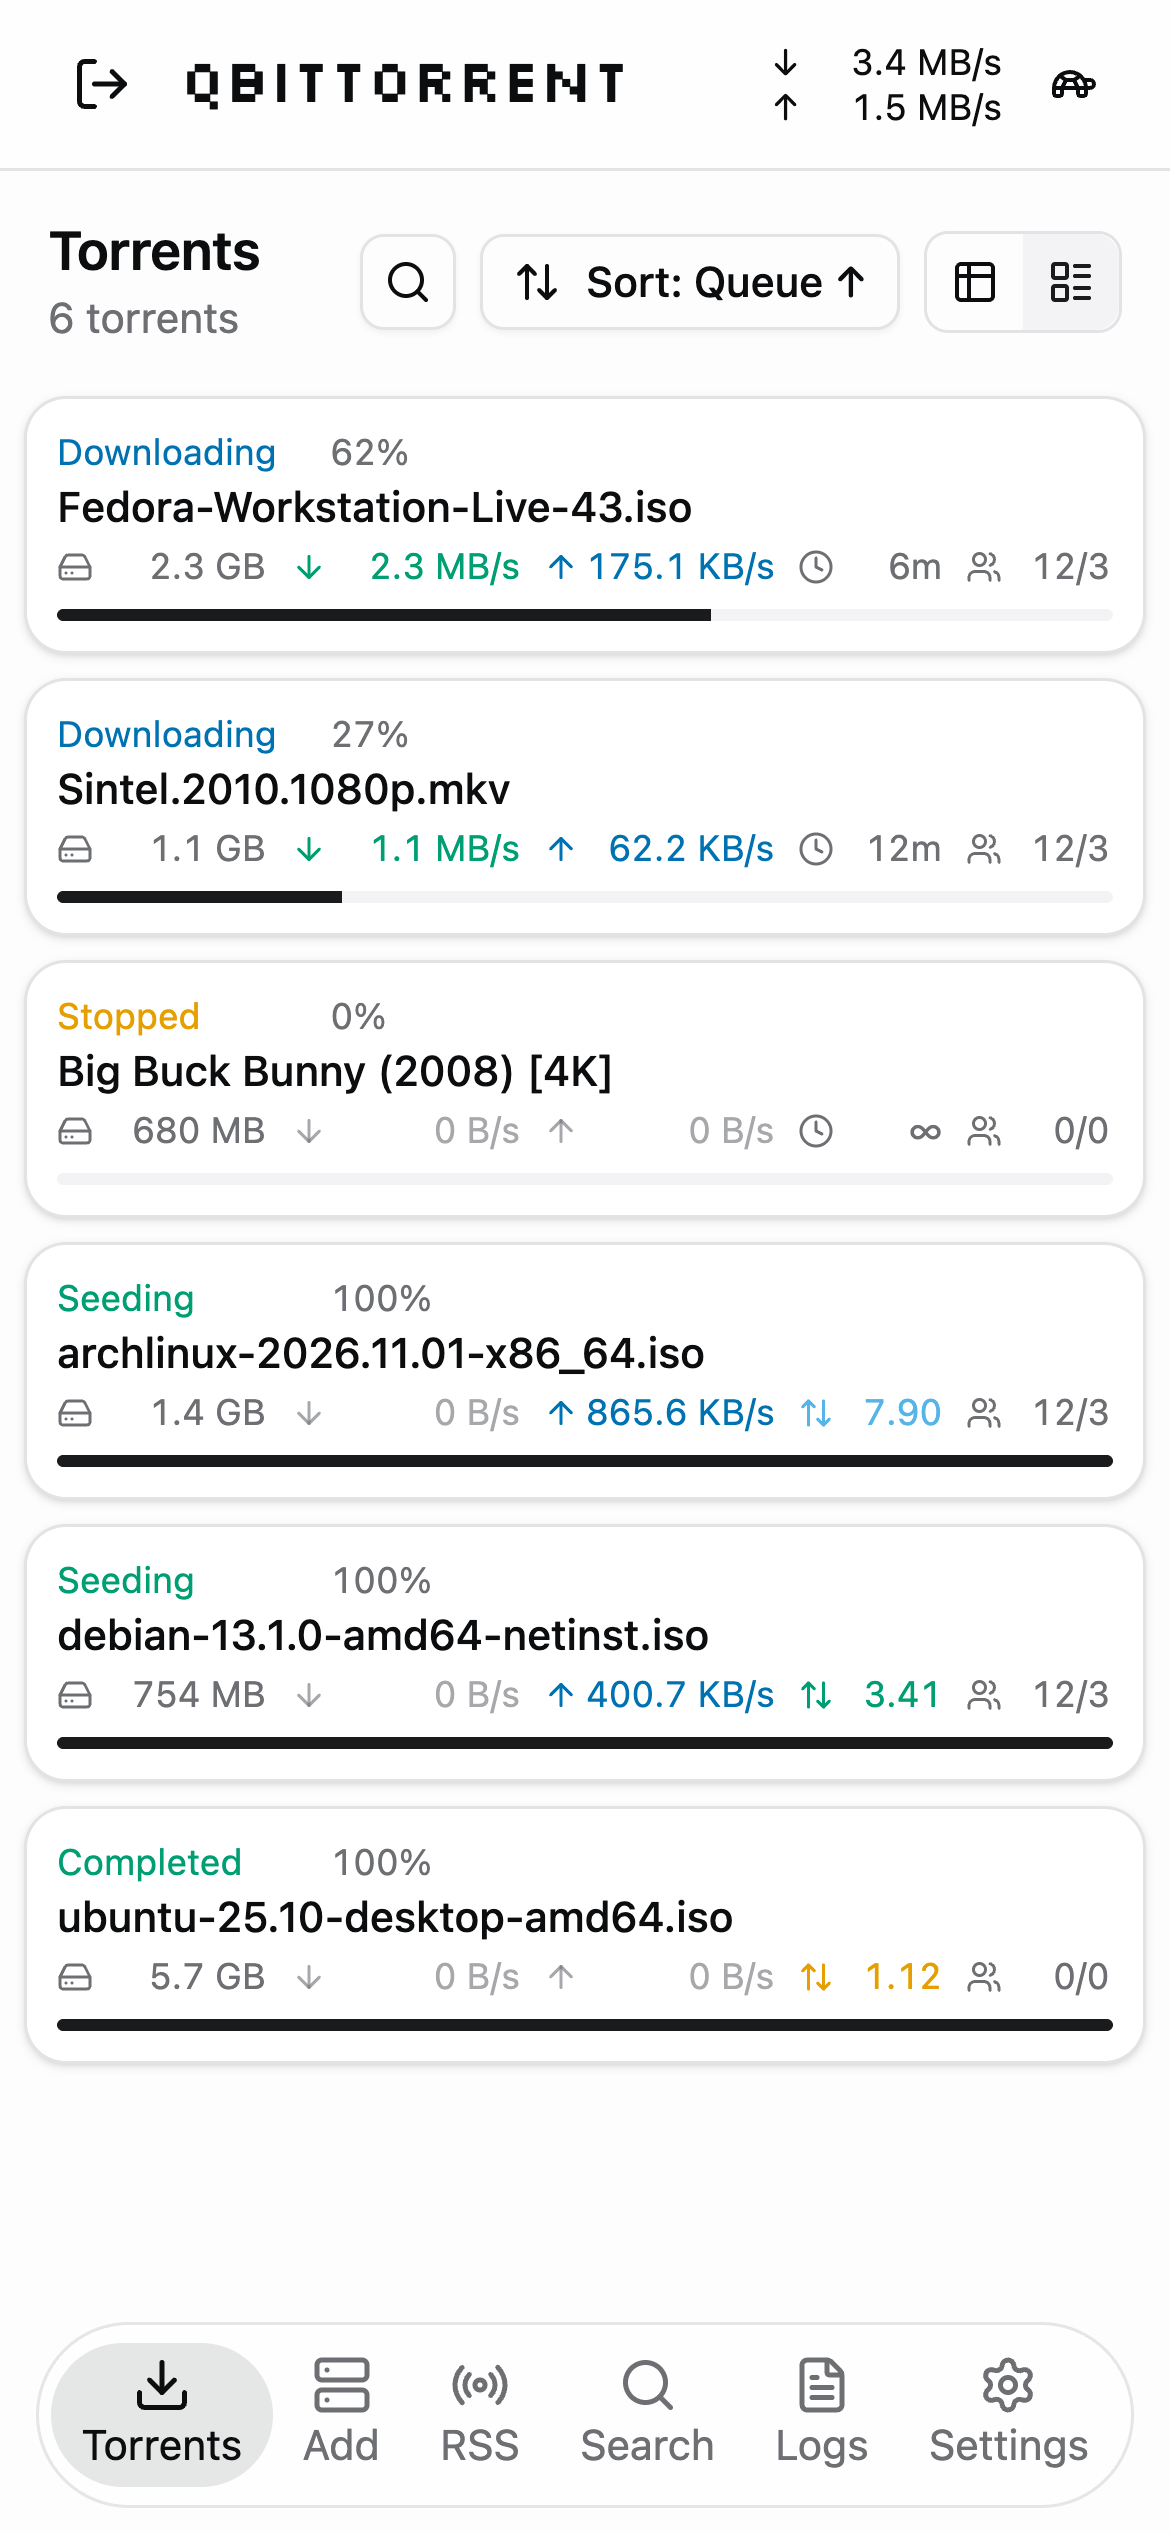
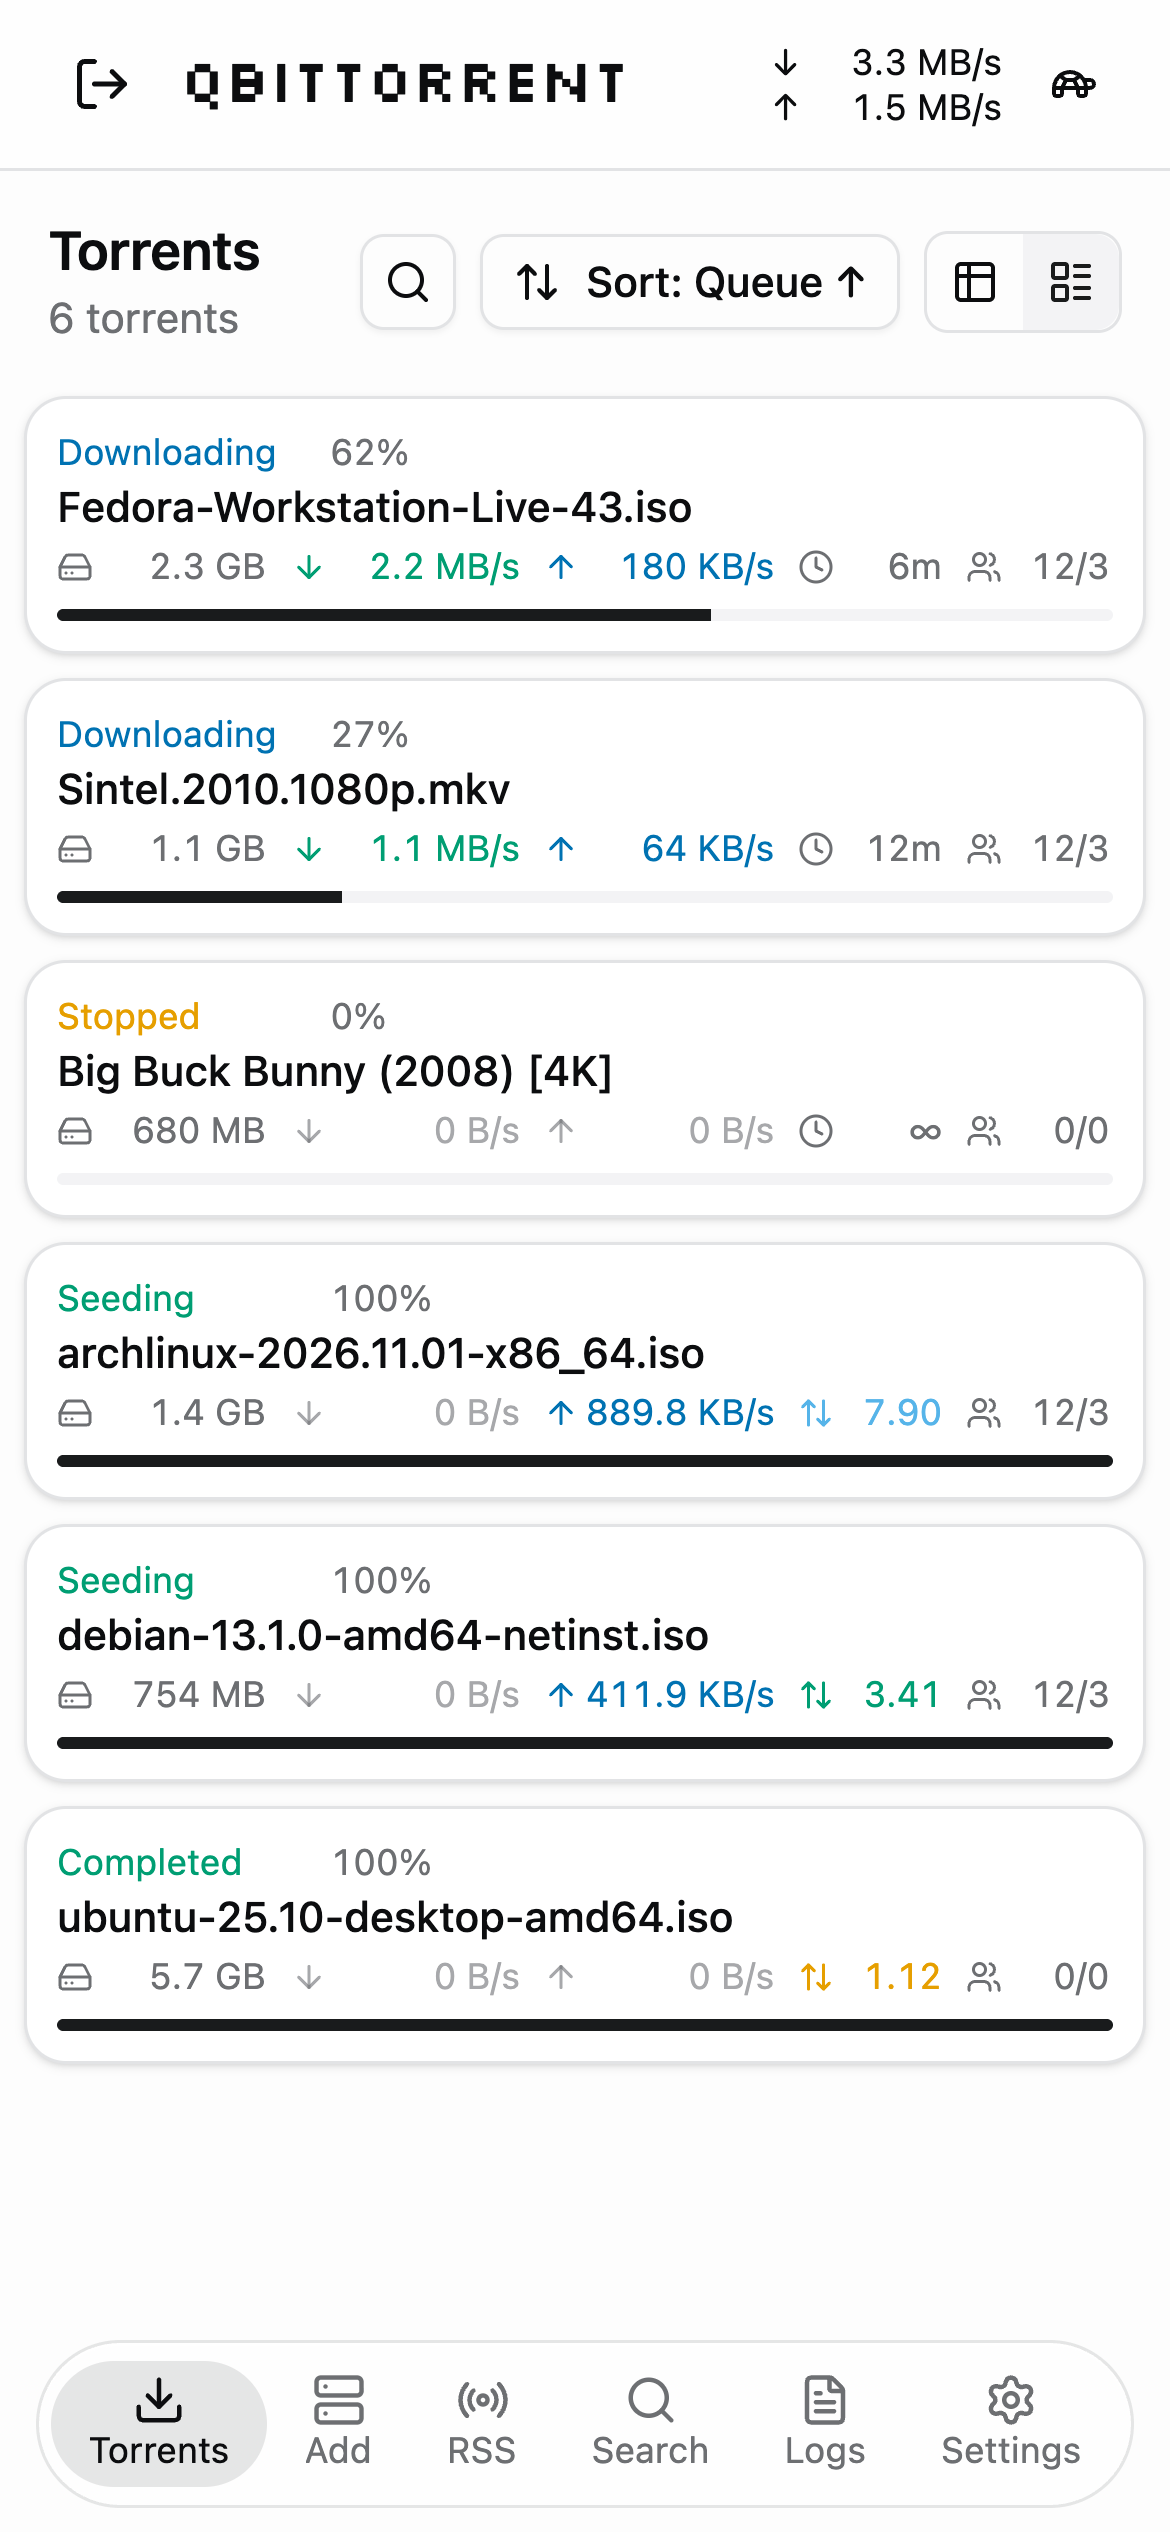
qbminimal 1.5.4
Navigation text sizes: sidebar labels are 14px with 16px icons beside
them, and the phone tab bar's labels are 12px with 18px icons above them
(20px when the labels are hidden in Settings). New screenshots.

diff --git a/src/components/Layout.tsx b/src/components/Layout.tsx
@@ -133,9 +133,9 @@ export function Layout({ page, onNavigate, children }: LayoutProps) {
   }, [page])
 
   const navButtons = PAGES.map(({ id, label, icon: Icon }) => (
-    <Button key={id} variant={page === id ? 'secondary' : 'ghost'} className="justify-start gap-2 overflow-hidden text-base" title={label} aria-current={page === id ? 'page' : undefined} onClick={() => onNavigate(id)}>
-      {/* Icons a little larger than the 16px labels, in the same proportion as the buttons. */}
-      <Icon className="size-4.5" />
+    <Button key={id} variant={page === id ? 'secondary' : 'ghost'} className="justify-start gap-2 overflow-hidden" title={label} aria-current={page === id ? 'page' : undefined} onClick={() => onNavigate(id)}>
+      {/* 14px labels like the tab bar's, with 16px icons beside them, as on the other buttons. */}
+      <Icon className="size-4" />
       <span className="truncate">{label}</span>
     </Button>
   ))
@@ -206,9 +206,10 @@ export function Layout({ page, onNavigate, children }: LayoutProps) {
         <div className="flex justify-around px-1 py-1.5">
           {PAGES.map(({ id, label, icon: Icon }) => (
             <button key={id} type="button" aria-current={page === id ? 'page' : undefined} onClick={() => onNavigate(id)} className={cn('flex min-w-0 flex-auto flex-col items-center rounded-full px-1 py-1 transition-colors [:root[data-tab-labels=off]_&]:py-2', page === id ? 'bg-foreground/10 text-foreground' : 'text-muted-foreground')}>
-              <Icon className="size-5" />
+              {/* 18px icons over 12px names; with the names hidden in Settings, 20px icons on their own. */}
+              <Icon className="size-4.5 [:root[data-tab-labels=off]_&]:size-5" />
               {/* Hidden in Settings, the names stay for screen readers. */}
-              <span className="max-w-full truncate text-sm [:root[data-tab-labels=off]_&]:sr-only">{label}</span>
+              <span className="max-w-full truncate text-xs [:root[data-tab-labels=off]_&]:sr-only">{label}</span>
             </button>
           ))}
         </div>
